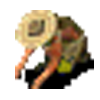
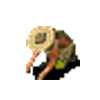
Continue Farmer Returning State

diff --git a/Entity/Farmer/FarmerState.py b/Entity/Farmer/FarmerState.py
@@ -1,6 +1,5 @@
 from State import State
 from random import randint
-
 from Vector2 import Vector2
 
 
@@ -11,19 +10,29 @@ class FarmerStateGoCutting(State):
         self.farmer = farmer
 
     def do_action(self):
-        pass
+        # Set Farmer Walk Image
+        if self.farmer.location.get_xy()[0] < self.farmer.destination.get_xy()[0]:
+            if self.farmer.location.get_xy()[1] < self.farmer.destination.get_xy()[1]:
+                self.farmer.image = self.farmer.world.image_class.farmer_rb_img
+            else:
+                self.farmer.image = self.farmer.world.image_class.farmer_ru_img
+        else:
+            if self.farmer.location.get_xy()[1] < self.farmer.destination.get_xy()[1]:
+                self.farmer.image = self.farmer.world.image_class.farmer_lb_img
+            else:
+                self.farmer.image = self.farmer.world.image_class.farmer_lu_img
 
     def check_condition(self):
         if self.farmer.forest_id:
-            if abs(self.farmer.location - self.farmer.world.entity_group[self.farmer.forest_id].location) < 75:
+            if abs(self.farmer.location - self.farmer.destination) < 10:
                 return "cutting"
         return None
 
     def entry_action(self):
-        self.farmer.speed = 100
+        self.farmer.speed = 60
         forest = self.farmer.world.get_nearest_entity(self.farmer.location, "forest")
         if forest:
-            self.farmer.destination = forest.location + Vector2(randint(-75, 75), randint(-50, 50))
+            self.farmer.destination = forest.location + Vector2(randint(-50, 50), randint(-20, 50))
             self.farmer.forest_id = forest.id
 
 
@@ -34,8 +43,8 @@ class FarmerStateCutting(State):
         self.farmer = farmer
 
     def do_action(self):
-        self.farmer.bear_load -= 1 * (self.farmer.time_passed / 1000)
         if self.farmer.forest_id in self.farmer.world.entity_group:
+            self.farmer.bear_load -= 1 * (self.farmer.time_passed / 1000)
             self.farmer.world.entity_group[self.farmer.forest_id].wood -= 1 * (self.farmer.time_passed / 1000)
             if self.farmer.world.entity_group[self.farmer.forest_id].wood <= 0:
                 self.farmer.world.remove(self.farmer.forest_id)
@@ -43,4 +52,41 @@ class FarmerStateCutting(State):
     def check_condition(self):
         if self.farmer.bear_load <= 0:
             return "returning"
+        if self.farmer.forest_id not in self.farmer.world.entity_group and self.farmer.bear_load > 0:
+            return "goCutting"
         return None
+
+    def entry_action(self):
+        self.farmer.destination = self.farmer.location
+        self.farmer.image = self.farmer.world.image_class.farmer_work_img
+
+
+class FarmerStateReturning(State):
+
+    def __init__(self, farmer):
+        State.__init__(self, "returning")
+        self.farmer = farmer
+
+    def do_action(self):
+        # Set Farmer Walk Image
+        if self.farmer.location.get_xy()[0] < self.farmer.destination.get_xy()[0]:
+            if self.farmer.location.get_xy()[1] < self.farmer.destination.get_xy()[1]:
+                self.farmer.image = self.farmer.world.image_class.farmer_rb_full_img
+            else:
+                self.farmer.image = self.farmer.world.image_class.farmer_ru_full_img
+        else:
+            if self.farmer.location.get_xy()[1] < self.farmer.destination.get_xy()[1]:
+                self.farmer.image = self.farmer.world.image_class.farmer_lb_full_img
+            else:
+                self.farmer.image = self.farmer.world.image_class.farmer_lu_full_img
+
+    def check_condition(self):
+        if abs(self.farmer.location - self.farmer.village.location) < 50:
+            return "goCutting"
+
+    def entry_action(self):
+        self.farmer.destination = self.farmer.village.location
+        self.farmer.speed = 30
+
+    def exit_action(self):
+        self.farmer.bear_load = 15

diff --git a/ImageClass.py b/ImageClass.py
@@ -10,14 +10,16 @@ class ImageClass:
         self.flower_img = pygame.transform.scale(pygame.image.load(r"img\flower.png"), (30, 30))
         self.berry_img = pygame.transform.scale(pygame.image.load(r"img\berry.png"), (50, 50))
 
-        self.farmer_lb_img = pygame.transform.scale(pygame.image.load(r"img\farmer\farmer_lb.png"), (50, 50))
-        self.farmer_lu_img = pygame.transform.scale(pygame.image.load(r"img\farmer\farmer_lu.png"), (50, 50))
-        self.farmer_ru_img = pygame.transform.scale(pygame.image.load(r"img\farmer\farmer_ru.png"), (50, 50))
-        self.farmer_rb_img = pygame.transform.scale(pygame.image.load(r"img\farmer\farmer_rb.png"), (50, 50))
-        self.farmer_lb_full_img = pygame.transform.scale(pygame.image.load(r"img\farmer\farmer_lb_full.png"), (50, 50))
-        self.farmer_rb_full_img = pygame.transform.scale(pygame.image.load(r"img\farmer\farmer_rb_full.png"), (50, 50))
-        self.farmer_lu_full_img = pygame.transform.scale(pygame.image.load(r"img\farmer\farmer_lu_full.png"), (50, 50))
-        self.farmer_ru_full_img = pygame.transform.scale(pygame.image.load(r"img\farmer\farmer_ru_full.png"), (50, 50))
-        self.farmer_work_img = pygame.transform.scale(pygame.image.load(r"img\farmer\farmer_work.png"), (50, 50))
+        self.farmer_lb_img = pygame.transform.scale(pygame.image.load(r"img\farmer\farmer_lb.png"), (30, 30))
+        self.farmer_lu_img = pygame.transform.scale(pygame.image.load(r"img\farmer\farmer_lu.png"), (30, 30))
+        self.farmer_ru_img = pygame.transform.scale(pygame.image.load(r"img\farmer\farmer_ru.png"), (30, 30))
+        self.farmer_rb_img = pygame.transform.scale(pygame.image.load(r"img\farmer\farmer_rb.png"), (30, 30))
+        self.farmer_lb_full_img = pygame.transform.scale(pygame.image.load(r"img\farmer\farmer_lb_full.png"), (30, 30))
+        self.farmer_rb_full_img = pygame.transform.scale(pygame.image.load(r"img\farmer\farmer_rb_full.png"), (30, 30))
+        self.farmer_lu_full_img = pygame.transform.scale(pygame.image.load(r"img\farmer\farmer_lu_full.png"), (30, 30))
+        self.farmer_ru_full_img = pygame.transform.scale(pygame.image.load(r"img\farmer\farmer_ru_full.png"), (30, 30))
+        self.farmer_work_img = pygame.transform.scale(pygame.image.load(r"img\farmer\farmer_work.png"), (30, 30))
+
+        self.village_img = pygame.transform.scale(pygame.image.load(r"img\tower.png"), (60, 90))
 
 

diff --git a/Main.py b/Main.py
@@ -7,6 +7,7 @@ from Entity.Farmer.Farmer import Farmer
 from Entity.Flower import Flower
 from Entity.Stone import Stone
 from Entity.Forest import Forest
+from Entity.Village import Village
 from ImageClass import ImageClass
 from Vector2 import Vector2
 from World import World
@@ -36,7 +37,7 @@ def main():
     start_draw_pos = Vector2(0, 0)
 
     # Create world
-    world = World(image_class.world_bg, WIDTH_HEIGHT)
+    world = World(image_class.world_bg, WIDTH_HEIGHT, image_class)
 
     # Create Forest
     for i in range(100):
@@ -70,12 +71,15 @@ def main():
         berry = Flower(world, image_class.berry_img, random_location)
         world.add(berry)
 
+    village = Village(world, image_class.village_img, Vector2(500, 500))
+    world.add(village)
+
     # Create Farmer
     for i in range(10):
         x = randint(-50, 50)
         y = randint(-50, 50)
-        random_location = Vector2(500, 500) + Vector2(x, y)
-        farmer = Farmer(world, image_class.farmer_lb_img, random_location)
+        random_location = village.location + Vector2(x, y)
+        farmer = Farmer(world, image_class.farmer_lb_img, random_location, village)
         farmer.brain.set_state("goCutting")
         world.add(farmer)
 

diff --git a/World.py b/World.py
@@ -1,11 +1,10 @@
 from Pencil import Pencil
 import pygame
-from Vector2 import Vector2
 
 
 class World:
 
-    def __init__(self, world_bg, WIDTH_HEIGHT):
+    def __init__(self, world_bg, WIDTH_HEIGHT, image_class):
         self.world_bg = world_bg
         self.entity_group = {}
         self.entity_id = 0
@@ -14,6 +13,7 @@ class World:
         self.sub_map_surface = self.set_sub_map()
         self.rect_in_sub_map_width_height = []
         self.rect_in_sub_map_pos = []
+        self.image_class = image_class
 
     def set_sub_map(self):
         sub_map_surface = pygame.Surface(self.sub_map_width_height)
@@ -31,8 +31,10 @@ class World:
 
     def render(self, screen, start_draw_pos):
         screen.blit(self.world_bg, start_draw_pos)
-        # Draw Entity
-        for entity in self.entity_group.values():
+
+        # Draw Entity && sort the entity by their y position
+        for tuple_element in sorted(self.entity_group.items(), key=lambda item: item[1].location.get_xy()[1]):
+            entity = tuple_element[1]
             entity.render(screen, start_draw_pos)
             # draw entity on sub map
             if entity.color:

diff --git a/Entity/Forest.py b/Entity/Forest.py
@@ -1,4 +1,5 @@
 from GameEntity import GameEntity
+from Pencil import Pencil
 
 
 class Forest(GameEntity):
@@ -7,7 +8,20 @@ class Forest(GameEntity):
         GameEntity.__init__(self, "forest", world, tree_image)
         self.location = location
         self.color = (0, 200, 0)
-        self.wood = 100
+        self.max_wood = 500
+        self.wood = self.max_wood
 
     def render(self, surface, start_draw_pos):
         GameEntity.render(self, surface, start_draw_pos)
+        if self.wood < self.max_wood:
+            x, y = self.location.x + start_draw_pos[0], self.location.y + start_draw_pos[1]
+            w, h = self.image.get_size()
+            # bar_w = 40
+            # bar_h = 4
+            # bar_x = x - bar_w // 2
+            # bar_y = y + h // 2 + 10
+            # surface.fill((150, 0, 0), (bar_x, bar_y, bar_w, 4))
+            # surface.fill((0, 150, 0), (bar_x, bar_y, self.wood / self.max_wood * bar_w, bar_h))
+            text_x = x - 20
+            text_y = y + h // 2
+            Pencil.write_text(surface, "%3d/500" % self.wood, [text_x, text_y], 10, color=(200, 200, 200))

diff --git a/Entity/Farmer/Farmer.py b/Entity/Farmer/Farmer.py
@@ -1,11 +1,11 @@
-from Entity.Farmer.FarmerState import FarmerStateGoCutting, FarmerStateCutting
+from Entity.Farmer.FarmerState import FarmerStateGoCutting, FarmerStateCutting, FarmerStateReturning
 from GameEntity import GameEntity
 from StateMachine import StateMachine
 
 
 class Farmer(GameEntity):
 
-    def __init__(self, world, farmer_image, location):
+    def __init__(self, world, farmer_image, location, village):
         GameEntity.__init__(self, "farmer", world, farmer_image)
         self.location = location
         self.color = (200, 0, 0)
@@ -14,9 +14,12 @@ class Farmer(GameEntity):
         self.bear_load = 15
         stateGoCutting = FarmerStateGoCutting(self)
         stateCutting = FarmerStateCutting(self)
+        stateReturning = FarmerStateReturning(self)
         self.brain.add_state(stateGoCutting)
         self.brain.add_state(stateCutting)
+        self.brain.add_state(stateReturning)
         self.time_passed = 0
+        self.village = village
 
     def render(self, surface, start_draw_pos):
         GameEntity.render(self, surface, start_draw_pos)

diff --git a/GameEntity.py b/GameEntity.py
@@ -26,11 +26,6 @@ class GameEntity:
         time_passed_second = time_passed / 1000
         self.brain.think()
         if self.destination != self.location:
-            # Set walk to left or right Image
-            if self.destination.x < self.location.x:
-                self.image = self.left_image
-            else:
-                self.image = self.right_image
             vec_to_destination = self.destination - self.location
             distance_to_destination = abs(vec_to_destination)
             heading = vec_to_destination.normalization()

diff --git a/Entity/Village.py b/Entity/Village.py
@@ -1,0 +1,12 @@
+from GameEntity import GameEntity
+
+
+class Village(GameEntity):
+
+    def __init__(self, world, tree_image, location):
+        GameEntity.__init__(self, "village", world, tree_image)
+        self.location = location
+        self.color = (200, 0, 200)
+
+    def render(self, surface, start_draw_pos):
+        GameEntity.render(self, surface, start_draw_pos)
